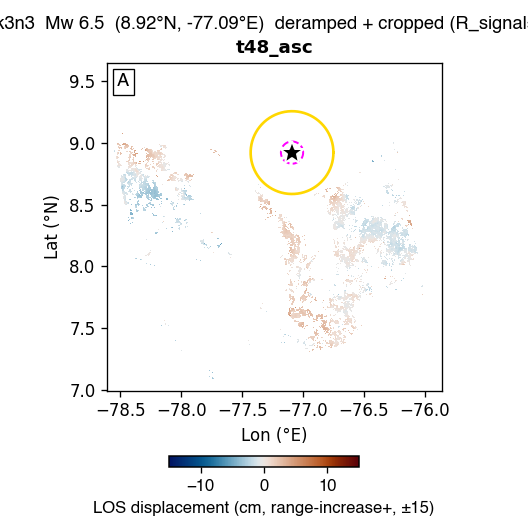
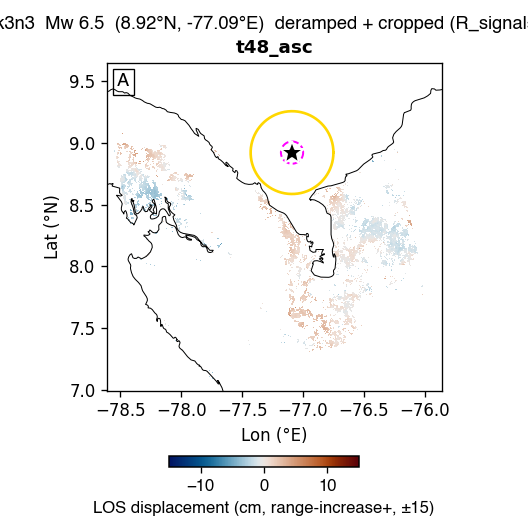
catalog update 2026-06-04T00:22:52Z (593 events)

diff --git a/events/us7000k3n3/REPORT.html b/events/us7000k3n3/REPORT.html
@@ -1,5 +1,5 @@
 <!doctype html>
-<html lang="en"><head><meta charset="utf-8"><title>us7000k3n3 report (partial)</title>
+<html lang="en"><head><meta charset="utf-8"><title>us7000k3n3 report</title>
 <style>
   body { font-family: -apple-system, Helvetica, Arial, sans-serif;
          max-width: 1200px; margin: 28px auto; padding: 0 22px; color: #222; line-height: 1.5; }
@@ -10,67 +10,77 @@
   table { border-collapse: collapse; font-size: 12.5px; margin: 8px 0; }
   th, td { border: 1px solid #ccc; padding: 4px 8px; }
   th { background: #f2f2f2; text-align: left; }
+  td.r { text-align: right; }
   td.c { text-align: center; }
+  .ok { color: #1a7a2a; font-weight: 600; }
+  .warn { color: #c47800; font-weight: 600; }
+  .bad { color: #b22222; font-weight: 600; }
   .summary { background: #fff7d6; border-left: 4px solid #c47800;
+             padding: 11px 14px; margin: 14px 0; font-size: 13px; }
+  .verdict { background: #fbe3e3; border-left: 4px solid #b22222;
              padding: 11px 14px; margin: 14px 0; font-size: 13px; }
   .pending { background: #eef0f8; border-left: 4px solid #8890b8;
              padding: 9px 13px; margin: 8px 0; font-size: 13px; color: #445; }
-  .verdict { background: #fbe3e3; border-left: 4px solid #b22222;
-             padding: 11px 14px; margin: 14px 0; font-size: 13px; }
-  .ok { color: #1a7a2a; font-weight: 600; }
-  .bad { color: #b22222; font-weight: 600; }
   code { background: #f0f0f0; padding: 1px 5px; border-radius: 3px; font-size: 11.5px; }
 </style>
 </head><body>
 
 <h1>us7000k3n3 — Mw 6.5 — GBIS report</h1>
 
+
 <div class="summary">
 <b>Event:</b> 45 km NE of Puerto Obaldía, Panama · (8.922°N, -77.090°E, depth 13.0 km)<br>
 <b>USGS NP1:</b> strike 143.5° / dip 12.3° / rake 124.3°<br>
 <b>USGS NP2:</b> strike 288.6° / dip 79.9° / rake 83.0°<br>
-<b>Status:</b> observations + two-round downsample done; GBIS inversion pending.
+<b>GBIS optimum:</b> strike 84.0° / dip 47.3° / rake -106.3° / Mw 6.75 (best logP -370.0722)
 </div>
 
 
 
 <h2>1. Raw observations (deramped + cropped)</h2>
-<img src="gbis/_partial/figures/01_raw_obs.png">
+<img src="gbis/np1/figures/01_raw_obs.png">
+
 
 <h2>2. Two-round iterative downsampling (Pass-1 zoned → Pass-2 synth-quadtree)</h2>
-<div class="pending">No <code>subsample_v9_zoned.mat</code> found — run Stage 4 (<code>qsRunFullEvent</code>) first.</div>
+<img src="gbis/np1/figures/02_ds_two_pass.png">
 
-<h2>3. GBIS inversion result — posterior + diagnostics</h2>
-<div class="pending">⏳ Pending — GBIS MCMC not yet complete. Re-run after qsRunFullEvent finishes.</div>
+<h2>3. Initial start, search range, and GBIS-reported optimum</h2>
+<table>
+<tr><th>parameter</th><th>start</th><th>lower</th><th>upper</th><th>USGS NP1 / W&C</th><th>GBIS optimum</th></tr>
+<tr><td>L (km)</td><td class="c">24.83</td><td class="c">9.93</td><td class="c">34.76</td><td class="c">24.83</td><td class="c"><b>34.36</b></td></tr>
+<tr><td>W (km)</td><td class="c">11.75</td><td class="c">4.70</td><td class="c">16.45</td><td class="c">11.75</td><td class="c"><b>16.26</b></td></tr>
+<tr><td>Z_top (km)</td><td class="c">11.75</td><td class="c">0.10</td><td class="c">30.00</td><td class="c">11.75</td><td class="c"><b>3.65</b></td></tr>
+<tr><td>dip (°)</td><td class="c">12.3</td><td class="c">0.1</td><td class="c">47.3</td><td class="c">12.3</td><td class="c"><b>47.3</b></td></tr>
+<tr><td>strike (°)</td><td class="c">143.5</td><td class="c">83.5</td><td class="c">203.5</td><td class="c">143.5</td><td class="c"><b>84.0</b></td></tr>
+<tr><td>X (km)</td><td class="c">0</td><td class="c">-24.8</td><td class="c">24.8</td><td class="c">0</td><td class="c"><b>1.42</b></td></tr>
+<tr><td>Y (km)</td><td class="c">0</td><td class="c">-24.8</td><td class="c">24.8</td><td class="c">0</td><td class="c"><b>-24.73</b></td></tr>
+<tr><td>SS (m)</td><td class="c">-0.423</td><td class="c">-2.25</td><td class="c">+2.25</td><td class="c">-0.423</td><td class="c"><b>-0.258</b></td></tr>
+<tr><td>DS (m)</td><td class="c">+0.621</td><td class="c">-2.25</td><td class="c">+2.25</td><td class="c">+0.621</td><td class="c"><b>-0.884</b></td></tr>
+<tr><th colspan=4>derived</th><th class="c">USGS</th><th class="c">GBIS</th></tr>
+<tr><td>|slip| (m)</td><td colspan=3></td><td class="c">0.751</td><td class="c"><b>0.921</b></td></tr>
+<tr><td>rake (°)</td><td colspan=3></td><td class="c">124.3</td><td class="c"><b>-106.3</b></td></tr>
+<tr><td>Mw</td><td colspan=3></td><td class="c">6.50</td><td class="c"><b>6.75</b></td></tr>
+<tr><td>Z_bot (km)</td><td colspan=3></td><td class="c">14.25</td><td class="c"><b>15.60</b></td></tr>
+<tr><td><b>震源深度 / centroid depth (km)</b></td><td colspan=3></td><td class="c">13.00</td><td class="c"><b>9.62</b></td></tr>
+</table>
+<p style="font-size:12px;color:#666">震源深度对比：USGS = 报告的震源（hypocenter）深度；GBIS = 断层质心深度 (Z_top+Z_bot)/2。</p>
+<p style="font-size:12px;color:#666">Note: GBIS optimum = single MAP sample reported by GBIS in <code>invResults.model.optimal</code>, NOT a chain median.</p>
+
 
 <h2>4. Beachball comparison</h2>
-<div class="pending">⏳ Not generated — needs the full-mode figure helper. the beachball (full-mode figure helper).</div>
+<img src="gbis/np1/figures/04_beachball.png">
 
-<h2>5. Triplet — data / model / residual</h2>
-<div class="pending">⏳ Not generated — needs the full-mode figure helper. the data/model/residual triplet (full-mode figure helper).</div>
+<h2>5. Triplet — data / model / residual using GBIS optimum</h2>
+<img src="gbis/np1/figures/05_triplet_optimum.png">
 
 <h2>6. Joint-posterior corner plot</h2>
-<div class="pending">⏳ Not generated — needs the full-mode figure helper. the corner plot (full-mode figure helper).</div>
+<img src="gbis/np1/figures/06_corner.png">
+<p style="font-size:12px;color:#666">Red truth lines = USGS NP1 (W&amp;C scaled). Density contours = 39%, 68%, 95% credible regions.</p>
 
 <h2>7. Burn-in / chain trace</h2>
-<div class="pending">⏳ Not generated — needs the full-mode figure helper. the chain trace (full-mode figure helper).</div>
+<img src="gbis/np1/figures/07_trace.png">
+<p style="font-size:12px;color:#666">Blue shading = SA cooling (first 50k iterations). Gray = post-burnin MCMC. Red horizontal = GBIS reported optimum. Dashed orange = USGS NP1 W&amp;C value.</p>
 
 
-<h2>8. Agent Review (LLM advisory)</h2>
-<div style="background:#f5f8fc;border-left:4px solid #666;
-            padding:11px 14px;margin:12px 0;font-size:13px;line-height:1.55">
-  <div style="font-size:15px"><b style="color:#666">Rating: ?</b>
-   &nbsp;·&nbsp; <i>LLM advisor not invoked</i></div>
-  <div style="margin-top:8px"><b>Recommendation:</b> <code>manual_review</code>
-   &nbsp; <b>Confidence:</b> low</div>
-  
-  <div><b>Concerns:</b><ul style="margin:4px 0"><li>ANTHROPIC_API_KEY not set — to enable LLM advisory, export ANTHROPIC_API_KEY and re-run</li></ul></div>
-  <div><b>Rationale:</b> ANTHROPIC_API_KEY not set — to enable LLM advisory, export ANTHROPIC_API_KEY and re-run</div>
-  
-  <div style="margin-top:10px;color:#777;font-size:11.5px">
-    Advisory only. Generated by claude ?
-    (0 tokens) — not used to drive pipeline actions.
-  </div>
-</div>
 
 </body></html>